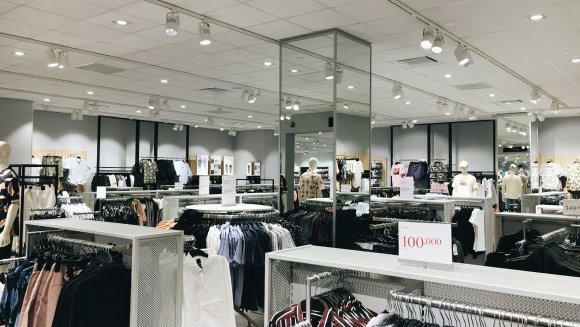
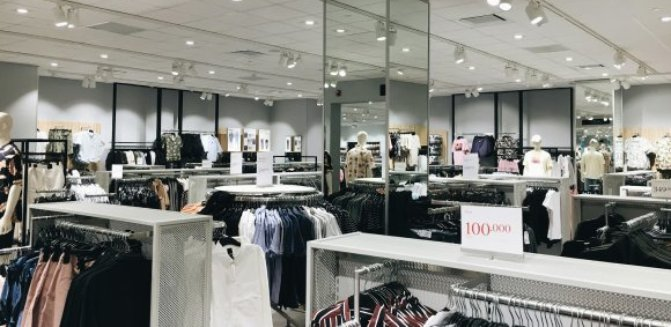
update projects

diff --git a/dist/index.html b/dist/index.html
@@ -1,308 +1,1 @@
-<!DOCTYPE html>
-<html lang="en" class="sr">
-  <head>
-    <meta charset="utf-8">
-    <meta http-equiv="X-UA-Compatible" content="IE=edge">
-    <meta name="viewport" content="width=device-width, initial-scale=1">
-    <link rel="shortcut icon" type="image/png" href="/favicon.2a2e97fc.png">
-
-    <!-- Todo: put here your site title -->
-    <title>[Christopher James] | Developer</title>
-    <!-- Todo: add some coding keywords below - e.g: (javascript, yourusername, etc) -->
-    <meta name="keywords" content="[username], [name], skill">
-    <!-- Todo: improve your SEO by adding a small description of you -->
-    <meta name="description" content="[Your name here] | Developer">
-
-    <link rel="stylesheet" href="https://cdnjs.cloudflare.com/ajax/libs/font-awesome/4.7.0/css/font-awesome.min.css">
-    <link rel="stylesheet" href="/index.4a508c1d.css">
-    <script defer="" src="https://unpkg.com/scrollreveal@4.0.0/dist/scrollreveal.min.js"></script>
-
-    <!-- Todo: remove the below script once you finish your portfolio -->
-    <script async="" defer="" src="https://buttons.github.io/buttons.js"></script>
-  </head>
-
-  <!-- Todo: read the following HTML Todos to create your stunning portfolio website -->
-  <body>
-    <div id="top"></div>
-
-    <!-- **** Hero Section **** -->
-    <section id="hero" class="jumbotron">
-      <div class="container">
-        <h1 class="hero-title load-hidden">
-          Hi, My Name Is <span class="text-color-main">Christopher James</span>
-          <br>
-          Full Stack Developer And Avid Learner Of Things.
-        </h1>
-        <p class="hero-cta load-hidden">
-          <a rel="noreferrer" class="cta-btn cta-btn--hero" href="#about">Know more</a>
-        </p>
-      </div>
-    </section>
-    <!-- /END Hero Section -->
-
-    <!-- **** About Section **** -->
-    <section id="about">
-      <div class="container">
-        <h2 class="section-title load-hidden">About me</h2>
-        <div class="row about-wrapper">
-          <div class="col-md-6 col-sm-12">
-            <div class="about-wrapper__image load-hidden">
-              <img alt="Profile Image" class="img-fluid rounded shadow-lg" height="auto" width="300px" src="/coffee.2ce91cbe.avif">
-            </div>
-          </div>
-          <div class="col-md-6 col-sm-12">
-            <div class="about-wrapper__info load-hidden">
-              <p class="about-wrapper__info-text">
-                I'm Chris, a full stack developer with an ambition to grow and learn new things. 
-                I love solving problems, building innovative solutions, and continuously expanding my 
-                knowledge.
-              </p>
-              <p class="about-wrapper__info-text">
-                My hobbies are exercising, nature and reading.
-              </p>
-              <span class="d-flex mt-3">
-                <a rel="noreferrer" target="_blank" class="cta-btn cta-btn--resume" href="/assets/private.pdf">
-                  View Resume
-                </a>
-              </span>
-            </div>
-          </div>
-        </div>
-      </div>
-    </section>
-    <!-- /END About Section -->
-
-    <!-- **** Projects Section **** -->
-    <section id="projects">
-      <div class="container">
-        <div class="project-wrapper">
-          <h2 class="section-title dark-blue-text">Projects</h2>
-
-          <!-- Notice: each .row is a project -->
-          <div class="row">
-            <div class="col-lg-4 col-sm-12">
-              <div class="project-wrapper__text load-hidden">
-                <h3 class="project-wrapper__text-title">Crown Clothing</h3>
-                <div>
-                  <p class="mb-4">
-                    E-commerce App – A React and Firebase e-commerce application with TypeScript, React Redux, and Redux Sagas. Implements basic Stripe payments for checkout and provides a smooth, responsive shopping experience.
-                  </p>
-                </div>
-                <!-- <a
-                  rel="noreferrer"
-                  target="_blank"
-                  class="cta-btn cta-btn--hero"
-                  href="https://github.com/ChristopherJamesL/smart-brain-app-profile-picture"
-                >
-                  See Live
-                </a> -->
-                <a rel="noreferrer" target="_blank" class="cta-btn text-color-main" href="https://https://github.com/ChristopherJamesL/crown-clothing-typescript-plus">
-                  Source Code
-                </a>
-              </div>
-            </div>
-            <div class="col-lg-8 col-sm-12">
-              <div class="project-wrapper__image load-hidden">
-                <a rel="noreferrer" target="_blank">
-                  <div data-tilt="" data-tilt-max="4" data-tilt-glare="true" data-tilt-max-glare="0.5" class="thumbnail rounded js-tilt">
-                    <img alt="Project Image" class="img-fluid" src="/crown-clothing.394bb074.jpg">
-                  </div>
-                </a>
-              </div>
-            </div>
-          </div>
-          <!-- /END Project -->
-          <!-- Notice: each .row is a project -->
-          <div class="row">
-            <div class="col-lg-4 col-sm-12">
-              <div class="project-wrapper__text load-hidden">
-                <h3 class="project-wrapper__text-title">Smart-Brain Facial Recognition</h3>
-                <div>
-                  <p class="mb-4">
-                    Facial Recognition App built with React, Express.js and PostgreSQL.  Clarifai API used for
-                    facial recognition feature.  App contains sign-in, sign-out, register and user profile 
-                    functionality.
-                  </p>
-                </div>
-                <!-- <a
-                  rel="noreferrer"
-                  target="_blank"
-                  class="cta-btn cta-btn--hero"
-                  href="https://github.com/ChristopherJamesL/smart-brain-app-profile-picture"
-                >
-                  See Live
-                </a> -->
-                <a rel="noreferrer" target="_blank" class="cta-btn text-color-main" href="https://github.com/ChristopherJamesL/smart-brain-app-profile-picture">
-                  Source Code
-                </a>
-              </div>
-            </div>
-            <div class="col-lg-8 col-sm-12">
-              <div class="project-wrapper__image load-hidden">
-                <a rel="noreferrer" target="_blank">
-                  <div data-tilt="" data-tilt-max="4" data-tilt-glare="true" data-tilt-max-glare="0.5" class="thumbnail rounded js-tilt">
-                    <img alt="Project Image" class="img-fluid" src="/brain-min.5767270b.jpg">
-                  </div>
-                </a>
-              </div>
-            </div>
-          </div>
-          <!-- /END Project -->
-
-          <!-- Notice: each .row is a project -->
-          <div class="row">
-            <div class="col-lg-4 col-sm-12">
-              <div class="project-wrapper__text load-hidden">
-                <h3 class="project-wrapper__text-title">Smart-Brain API</h3>
-                <div>
-                  <p class="mb-4">
-                    Backend portion of the Smart-Brain App.  Uses Express.js with JavaScript for logic.  
-                    Complete with PostgreSQL, Knex.js, Bcrypt hashing, JWT tokens and Redis.
-                    PostgreSQL was used to store user info, and Redis was used to store JWT for session management.
-                  </p>
-                </div>
-                <!-- <a
-                  rel="noreferrer"
-                  target="_blank"
-                  class="cta-btn cta-btn--hero"
-                  href="#!"
-                >
-                  See Live
-                </a> -->
-                <a rel="noreferrer" target="_blank" class="cta-btn text-color-main" href="https://github.com/ChristopherJamesL/smart-brain-api-profile">
-                  Source Code
-                </a>
-              </div>
-            </div>
-            <div class="col-lg-8 col-sm-12">
-              <div class="project-wrapper__image load-hidden">
-                <a rel="noreferrer" target="_blank">
-                  <div data-tilt="" data-tilt-max="4" data-tilt-glare="true" data-tilt-max-glare="0.5" class="thumbnail rounded js-tilt">
-                    <img alt="Project Image" class="img-fluid" src="/brain-min.5767270b.jpg">
-                  </div>
-                </a>
-              </div>
-            </div>
-          </div>
-          <!-- /END Project -->
-
-          <!-- Notice: each .row is a project -->
-          <div class="row">
-            <div class="col-lg-4 col-sm-12">
-              <div class="project-wrapper__text load-hidden">
-                <h3 class="project-wrapper__text-title">Smart-Brain Serverless + AWS</h3>
-                <div>
-                  <p class="mb-4">
-                    AWS with Serverless Portion of the Smart-Brain App.  Lambda functions were used for Smart-Brain's
-                    Ranking and Profile Picture features.  S3 was used for photo storage and retrieval.
-                  </p>
-                </div>
-                <!-- <a
-                  rel="noreferrer"
-                  target="_blank"
-                  class="cta-btn cta-btn--hero"
-                  href="#!"
-                >
-                  See Live
-                </a> -->
-                <a rel="noreferrer" target="_blank" class="cta-btn text-color-main" href="https://github.com/ChristopherJamesL/serverless-smart-brain-functions">
-                  Source Code
-                </a>
-              </div>
-            </div>
-            <div class="col-lg-8 col-sm-12">
-              <div class="project-wrapper__image load-hidden">
-                <a rel="noreferrer" target="_blank">
-                  <div data-tilt="" data-tilt-max="4" data-tilt-glare="true" data-tilt-max-glare="0.5" class="thumbnail rounded js-tilt">
-                    <img alt="Project Image" class="img-fluid" src="/AWS-min.d3c37e1d.jpg">
-                  </div>
-                </a>
-              </div>
-            </div>
-          </div>
-          <!-- /END Project -->
-
-          <!-- Notice: each .row is a project -->
-          <div class="row">
-            <div class="col-lg-4 col-sm-12">
-              <div class="project-wrapper__text load-hidden">
-                <h3 class="project-wrapper__text-title">Robofriends</h3>
-                <div>
-                  <p class="mb-4">
-                    Frontend card display App built with React + Redux. Robohash API integration for robots.
-                    Searchbox Feature For Robot Filtering.
-                  </p>
-                </div>
-                <!-- <a
-                  rel="noreferrer"
-                  target="_blank"
-                  class="cta-btn cta-btn--hero"
-                  href="#!"
-                >
-                  See Live
-                </a> -->
-                <a rel="noreferrer" target="_blank" class="cta-btn text-color-main" href="https://github.com/ChristopherJamesL/robofriends-redux">
-                  Source Code
-                </a>
-              </div>
-            </div>
-            <div class="col-lg-8 col-sm-12">
-              <div class="project-wrapper__image load-hidden">
-                <a rel="noreferrer" target="_blank">
-                  <div data-tilt="" data-tilt-max="4" data-tilt-glare="true" data-tilt-max-glare="0.5" class="thumbnail rounded js-tilt">
-                    <img alt="Project Image" class="img-fluid" src="/robots-min.f071245c.jpg">
-                  </div>
-                </a>
-              </div>
-            </div>
-          </div>
-          <!-- /END Project -->
-        </div>
-      </div>
-    </section>
-    <!-- /END Projects Section -->
-
-    <!-- **** Contact Section **** -->
-    <section id="contact">
-      <div class="container">
-        <h2 class="section-title">Contact</h2>
-        <div class="contact-wrapper load-hidden">
-          <p class="contact-wrapper__text">Ready to take the next step? Let's get started now!</p>
-          <a rel="noreferrer" target="_blank" class="cta-btn cta-btn--resume" href="https://www.linkedin.com/in/christopher-jl/">Call to Action</a>
-        </div>
-      </div>
-    </section>
-    <!-- /END Contact Section -->
-
-    <!-- **** Footer Section **** -->
-    <footer class="footer navbar-static-bottom">
-      <div class="container">
-        <a rel="noreferrer" href="#top" class="back-to-top">
-          <i class="fa fa-angle-up fa-2x" aria-hidden="true"></i>
-        </a>
-        <div class="social-links">
-          <a rel="noreferrer" href="/assets/penguin.jpg" target="_blank">
-            <i class="fa fa-twitter fa-inverse"></i>
-          </a>
-          <a rel="noreferrer" href="https://www.linkedin.com/in/christopher-jl/" target="_blank">
-            <i class="fa fa-linkedin fa-inverse"></i>
-          </a>
-          <a rel="noreferrer" href="https://github.com/ChristopherJamesL" target="_blank">
-            <i class="fa fa-github fa-inverse"></i>
-          </a>
-        </div>
-
-        <hr>
-
-        <!-- Notice: if you want to give me some credit, it will be huge for me! if not, put your data on it -->
-        <p class="footer__text">
-          © 2024 - Portfolio by
-          <a rel="noreferrer" href="https://github.com/ChristopherJamesL" target="_blank">Christopher James</a>
-        </p>
-      </div>
-    </footer>
-    <!-- /END Footer Section -->
-
-    <script defer="" src="/index.975ef6c8.js"></script>
-  </body>
-</html>
+<!DOCTYPE html><html lang="en" class="sr"><head><meta charset="utf-8"><meta http-equiv="X-UA-Compatible" content="IE=edge"><meta name="viewport" content="width=device-width, initial-scale=1"><link rel="icon shortcut" type="image/png" href="favicon.887424ff.png"><title>[Christopher James] | Developer</title><meta name="keywords" content="[username], [name], skill"><meta name="description" content="[Your name here] | Developer"><link rel="stylesheet" href="https://cdnjs.cloudflare.com/ajax/libs/font-awesome/4.7.0/css/font-awesome.min.css"><link rel="stylesheet" href="index.8b0319ad.css"><script defer src="https://unpkg.com/scrollreveal@4.0.0/dist/scrollreveal.min.js"></script><script async defer src="https://buttons.github.io/buttons.js"></script></head><body> <div id="top"></div>  <section id="hero" class="jumbotron"> <div class="container"> <h1 class="hero-title load-hidden"> Hi, My Name Is <span class="text-color-main">Christopher James</span> <br> Full Stack Developer And Avid Learner Of Things. </h1> <p class="hero-cta load-hidden"> <a rel="noreferrer" class="cta-btn cta-btn--hero" href="#about">Know more</a> </p> </div> </section>   <section id="about"> <div class="container"> <h2 class="load-hidden section-title">About me</h2> <div class="about-wrapper row"> <div class="col-md-6 col-sm-12"> <div class="about-wrapper__image load-hidden"> <img alt="Profile Image" class="img-fluid rounded shadow-lg" height="auto" width="300px" src="coffee.ff768b7d.avif"> </div> </div> <div class="col-md-6 col-sm-12"> <div class="about-wrapper__info load-hidden"> <p class="about-wrapper__info-text"> I'm Chris, a full stack developer with an ambition to grow and learn new things. I love solving problems, building innovative solutions, and continuously expanding my knowledge. </p> <p class="about-wrapper__info-text"> My hobbies are exercising, nature and reading. </p> <span class="d-flex mt-3"> <a rel="noreferrer" target="_blank" class="cta-btn cta-btn--resume" href="assets/private.pdf"> View Resume </a> </span> </div> </div> </div> </div> </section>   <section id="projects"> <div class="container"> <div class="project-wrapper"> <h2 class="dark-blue-text section-title">Projects</h2>  <div class="row"> <div class="col-lg-4 col-sm-12"> <div class="load-hidden project-wrapper__text"> <h3 class="project-wrapper__text-title">Crown Clothing</h3> <div> <p class="mb-4"> E-commerce App – A React and Firebase e-commerce application with TypeScript, React Redux, and Redux Sagas. Implements basic Stripe payments for checkout and provides a smooth, responsive shopping experience. </p> </div>  <a rel="noreferrer" target="_blank" class="cta-btn text-color-main" href="https://crwn-clothing-p.netlify.app/"> Deployed Link </a> <a rel="noreferrer" target="_blank" class="cta-btn text-color-main" href="https://github.com/ChristopherJamesL/Practice-Project-React-Redux"> Source Code </a> </div> </div> <div class="col-lg-8 col-sm-12"> <div class="load-hidden project-wrapper__image"> <a rel="noreferrer" target="_blank"> <div data-tilt="" data-tilt-max="4" data-tilt-glare="true" data-tilt-max-glare="0.5" class="js-tilt rounded thumbnail"> <img alt="Project Image" class="img-fluid" src="crown-clothing.9aa3d59f.jpg"> </div> </a> </div> </div> </div>   <div class="row"> <div class="col-lg-4 col-sm-12"> <div class="load-hidden project-wrapper__text"> <h3 class="project-wrapper__text-title">Nasa Planets</h3> <div> <p class="mb-4"> NASA Mission Control API – A Node.js and Express backend application that processes NASA Kepler exoplanet data to identify potentially habitable planets. The project exposes RESTful API endpoints for managing space missions, uses a structured MVC architecture, and includes automated testing to ensure reliability and maintainability. </p> </div>  <a rel="noreferrer" target="_blank" class="cta-btn text-color-main" href="https://github.com/ChristopherJamesL/nasa-planets-project"> Source Code </a> </div> </div> <div class="col-lg-8 col-sm-12"> <div class="load-hidden project-wrapper__image"> <a rel="noreferrer" target="_blank"> <div data-tilt="" data-tilt-max="4" data-tilt-glare="true" data-tilt-max-glare="0.5" class="js-tilt rounded thumbnail"> <img alt="Project Image" class="img-fluid" src="nasa-planets.cf520f19.jpg"> </div> </a> </div> </div> </div>   <div class="row"> <div class="col-lg-4 col-sm-12"> <div class="load-hidden project-wrapper__text"> <h3 class="project-wrapper__text-title">Smart-Brain Facial Recognition</h3> <div> <p class="mb-4"> Facial Recognition App built with React, Express.js and PostgreSQL. Clarifai API used for facial recognition feature. App contains sign-in, sign-out, register and user profile functionality. </p> </div>  <a rel="noreferrer" target="_blank" class="cta-btn text-color-main" href="https://github.com/ChristopherJamesL/smart-brain-app-profile-picture"> Source Code </a> </div> </div> <div class="col-lg-8 col-sm-12"> <div class="load-hidden project-wrapper__image"> <a rel="noreferrer" target="_blank"> <div data-tilt="" data-tilt-max="4" data-tilt-glare="true" data-tilt-max-glare="0.5" class="js-tilt rounded thumbnail"> <img alt="Project Image" class="img-fluid" src="brain-min.e22d49cd.jpg"> </div> </a> </div> </div> </div>   <div class="row"> <div class="col-lg-4 col-sm-12"> <div class="load-hidden project-wrapper__text"> <h3 class="project-wrapper__text-title">Smart-Brain API</h3> <div> <p class="mb-4"> Backend portion of the Smart-Brain App. Uses Express.js with JavaScript for logic. Complete with PostgreSQL, Knex.js, Bcrypt hashing, JWT tokens and Redis. PostgreSQL was used to store user info, and Redis was used to store JWT for session management. </p> </div>  <a rel="noreferrer" target="_blank" class="cta-btn text-color-main" href="https://github.com/ChristopherJamesL/smart-brain-api-profile"> Source Code </a> </div> </div> <div class="col-lg-8 col-sm-12"> <div class="load-hidden project-wrapper__image"> <a rel="noreferrer" target="_blank"> <div data-tilt="" data-tilt-max="4" data-tilt-glare="true" data-tilt-max-glare="0.5" class="js-tilt rounded thumbnail"> <img alt="Project Image" class="img-fluid" src="brain-min.e22d49cd.jpg"> </div> </a> </div> </div> </div>   <div class="row"> <div class="col-lg-4 col-sm-12"> <div class="load-hidden project-wrapper__text"> <h3 class="project-wrapper__text-title">Smart-Brain Serverless + AWS</h3> <div> <p class="mb-4"> AWS with Serverless Portion of the Smart-Brain App. Lambda functions were used for Smart-Brain's Ranking and Profile Picture features. S3 was used for photo storage and retrieval. </p> </div>  <a rel="noreferrer" target="_blank" class="cta-btn text-color-main" href="https://github.com/ChristopherJamesL/serverless-smart-brain-functions"> Source Code </a> </div> </div> <div class="col-lg-8 col-sm-12"> <div class="load-hidden project-wrapper__image"> <a rel="noreferrer" target="_blank"> <div data-tilt="" data-tilt-max="4" data-tilt-glare="true" data-tilt-max-glare="0.5" class="js-tilt rounded thumbnail"> <img alt="Project Image" class="img-fluid" src="AWS-min.de356b9f.jpg"> </div> </a> </div> </div> </div>   <div class="row"> <div class="col-lg-4 col-sm-12"> <div class="load-hidden project-wrapper__text"> <h3 class="project-wrapper__text-title">Robofriends</h3> <div> <p class="mb-4"> Frontend card display App built with React + Redux. Robohash API integration for robots. Searchbox Feature For Robot Filtering. </p> </div>  <a rel="noreferrer" target="_blank" class="cta-btn text-color-main" href="https://github.com/ChristopherJamesL/robofriends-redux"> Source Code </a> </div> </div> <div class="col-lg-8 col-sm-12"> <div class="load-hidden project-wrapper__image"> <a rel="noreferrer" target="_blank"> <div data-tilt="" data-tilt-max="4" data-tilt-glare="true" data-tilt-max-glare="0.5" class="js-tilt rounded thumbnail"> <img alt="Project Image" class="img-fluid" src="robots-min.cebd06a9.jpg"> </div> </a> </div> </div> </div>  </div> </div> </section>   <section id="contact"> <div class="container"> <h2 class="section-title">Contact</h2> <div class="contact-wrapper load-hidden"> <p class="contact-wrapper__text">Ready to take the next step? Let's get started now!</p> <a rel="noreferrer" target="_blank" class="cta-btn cta-btn--resume" href="https://www.linkedin.com/in/christopher-jl/">Call to Action</a> </div> </div> </section>   <footer class="footer navbar-static-bottom"> <div class="container"> <a rel="noreferrer" href="#top" class="back-to-top"> <i class="fa fa-2x fa-angle-up" aria-hidden="true"></i> </a> <div class="social-links"> <a rel="noreferrer" href="assets/penguin.jpg" target="_blank"> <i class="fa fa-inverse fa-twitter"></i> </a> <a rel="noreferrer" href="https://www.linkedin.com/in/christopher-jl/" target="_blank"> <i class="fa fa-inverse fa-linkedin"></i> </a> <a rel="noreferrer" href="https://github.com/ChristopherJamesL" target="_blank"> <i class="fa fa-github fa-inverse"></i> </a> </div> <hr>  <p class="footer__text"> © 2024 - Portfolio by <a rel="noreferrer" href="https://github.com/ChristopherJamesL" target="_blank">Christopher James</a> </p> </div> </footer>  <script defer type="module" src="index.1cdb65c9.js"></script> </body></html>

diff --git a/src/index.html b/src/index.html
@@ -116,11 +116,19 @@
                 >
                   See Live
                 </a> -->
+                  <a
+                  rel="noreferrer"
+                  target="_blank"
+                  class="cta-btn text-color-main"
+                  href="https://crwn-clothing-p.netlify.app/"
+                >
+                  Deployed Link
+                </a>
                 <a
                   rel="noreferrer"
                   target="_blank"
                   class="cta-btn text-color-main"
-                  href="https://https://github.com/ChristopherJamesL/crown-clothing-typescript-plus"
+                  href="https://github.com/ChristopherJamesL/Practice-Project-React-Redux"
                 >
                   Source Code
                 </a>
@@ -140,6 +148,55 @@
                       alt="Project Image"
                       class="img-fluid"
                       src="assets/crown-clothing.jpg"
+                    />
+                  </div>
+                </a>
+              </div>
+            </div>
+          </div>
+          <!-- /END Project -->
+                     <!-- Notice: each .row is a project -->
+          <div class="row">
+            <div class="col-lg-4 col-sm-12">
+              <div class="project-wrapper__text load-hidden">
+                <h3 class="project-wrapper__text-title">Nasa Planets</h3>
+                <div>
+                  <p class="mb-4">
+                    NASA Mission Control API – A Node.js and Express backend application that processes NASA Kepler exoplanet data to identify potentially habitable planets. The project exposes RESTful API endpoints for managing space missions, uses a structured MVC architecture, and includes automated testing to ensure reliability and maintainability.
+                  </p>
+                </div>
+                <!-- <a
+                  rel="noreferrer"
+                  target="_blank"
+                  class="cta-btn cta-btn--hero"
+                  href="https://github.com/ChristopherJamesL/smart-brain-app-profile-picture"
+                >
+                  See Live
+                </a> -->
+                <a
+                  rel="noreferrer"
+                  target="_blank"
+                  class="cta-btn text-color-main"
+                  href="https://github.com/ChristopherJamesL/nasa-planets-project"
+                >
+                  Source Code
+                </a>
+              </div>
+            </div>
+            <div class="col-lg-8 col-sm-12">
+              <div class="project-wrapper__image load-hidden">
+                <a rel="noreferrer" target="_blank">
+                  <div
+                    data-tilt
+                    data-tilt-max="4"
+                    data-tilt-glare="true"
+                    data-tilt-max-glare="0.5"
+                    class="thumbnail rounded js-tilt"
+                  >
+                    <img
+                      alt="Project Image"
+                      class="img-fluid"
+                      src="assets/nasa-planets.jpg"
                     />
                   </div>
                 </a>
